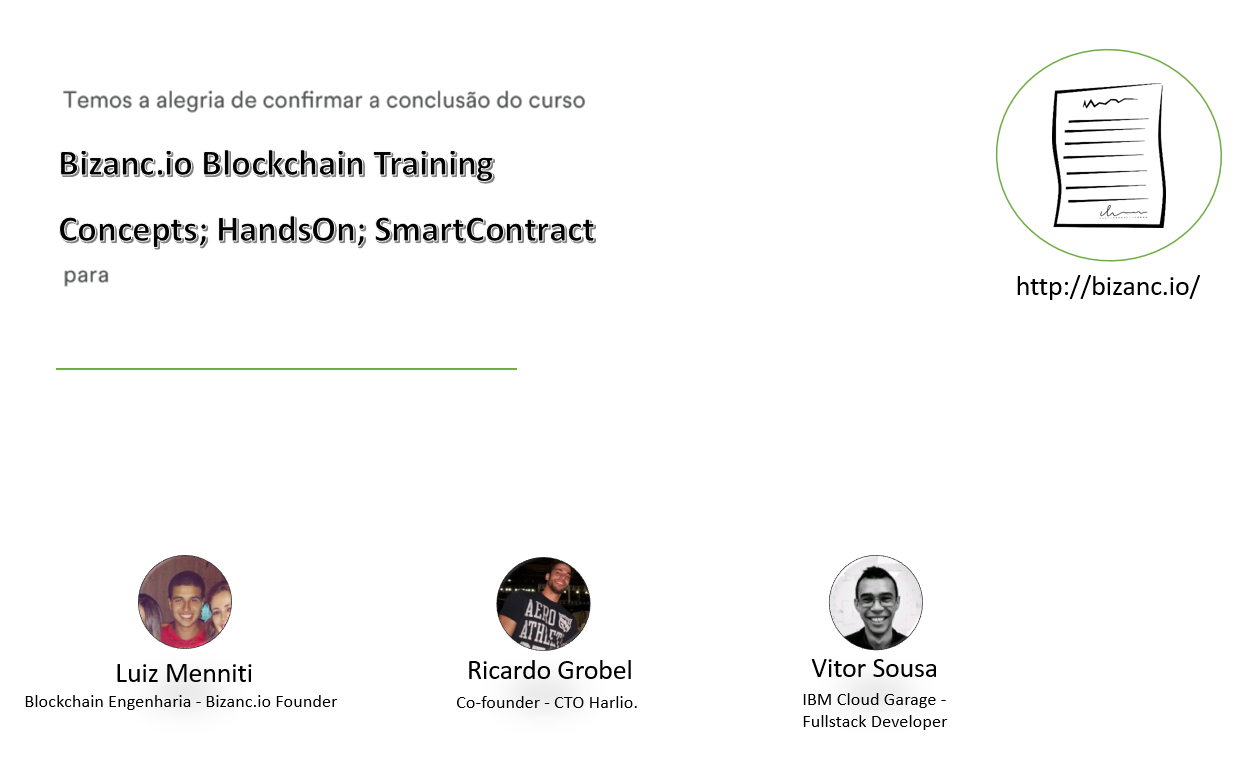
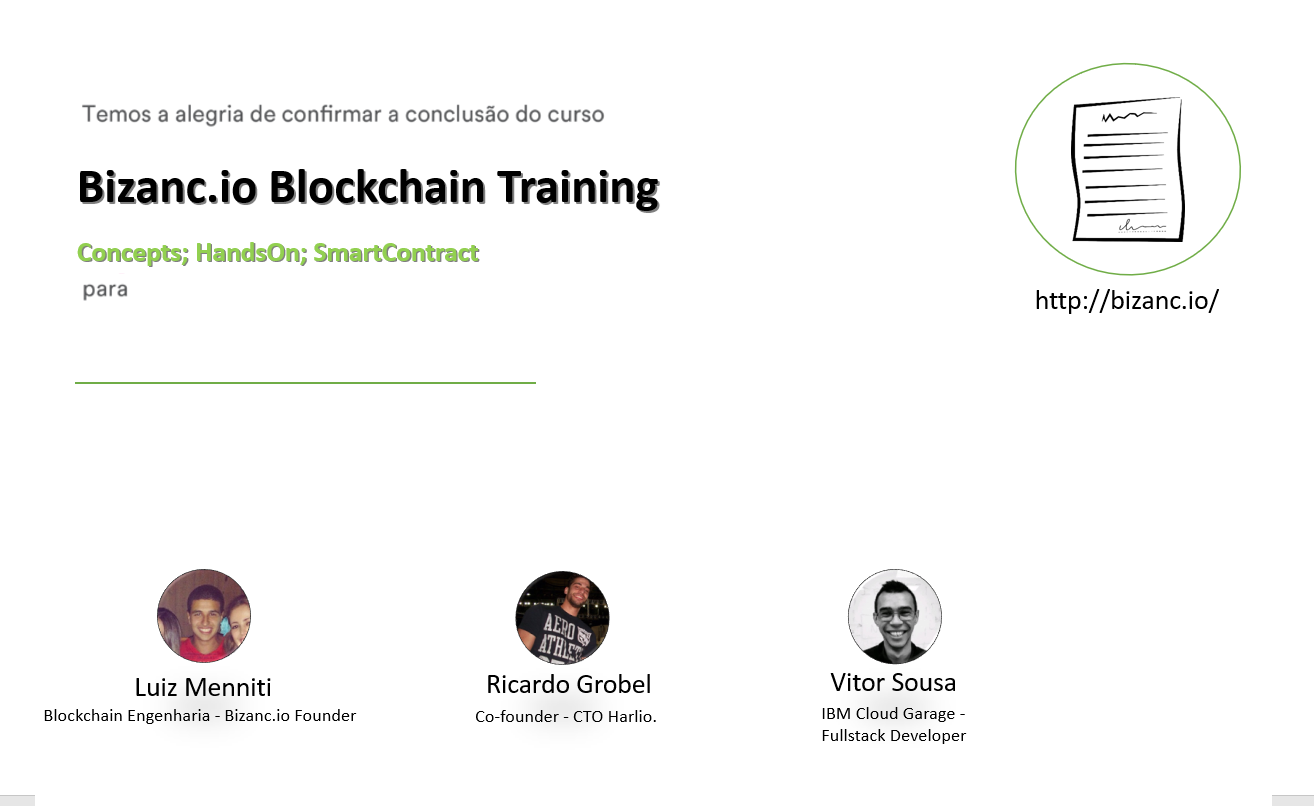
template certificado bizancio

diff --git a/client/certificate.css b/client/certificate.css
@@ -32,7 +32,7 @@ body {
 }
 
 .texto {
-  left: 5%;
+  left: 7%;
   width: 100%;
   font-family: echos;
   color: rgb(88, 89, 91);
@@ -46,7 +46,7 @@ body {
 
 .nome {
   position: absolute;
-  top: 38%;
+  top: 40%;
   font-size: 30px;
   font-weight: bold;
 }
